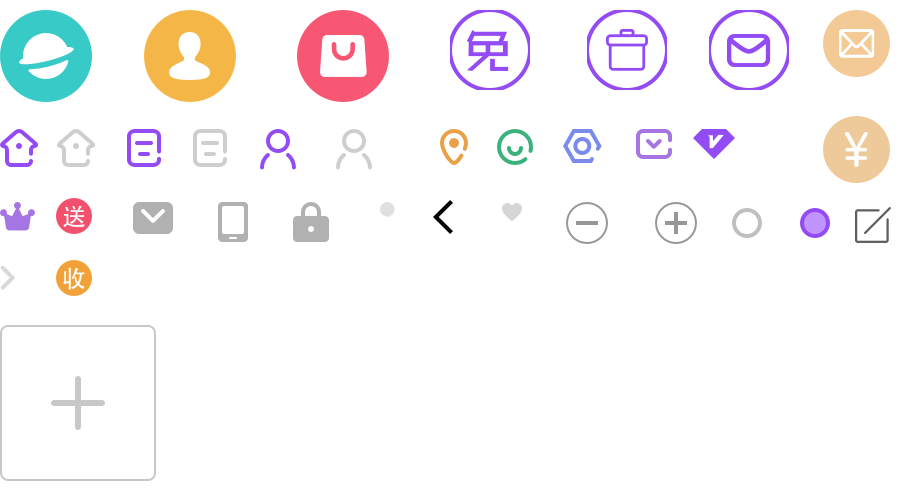
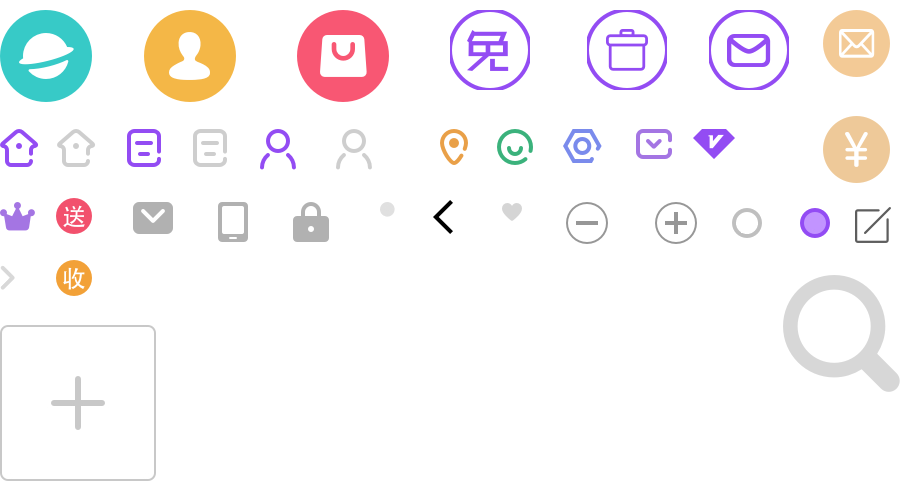
添加好友

Changed region(s): [[0.8711, 0.54, 1.0, 0.78]]

diff --git a/user/add_wechat_friend.html b/user/add_wechat_friend.html
@@ -17,24 +17,43 @@
         </a>
 
         <h3>添加好友</h3>
-        <a href="add_wechat_friend.html" class="add_more">添加好友</a>
     </div>
     <div class="content">
         <div class="search_wechat">
             <input class="wechat_input" type="text" placeholder="请输入好友的微信账号"/>
+            <a href="javascript:;" class="search_wechat_btn">搜索</a>
         </div>
-        <ul class="my_friend_ul">
+
+        <!--我的好友跳转过来时-->
+        <ul class="my_friend_ul" style="display: none">
             <li class="my_friend_item clearfix">
                 <img src="../images/friend_1.png" alt="friend"/>
                 <span>小花</span>
                 <span class="has_added">已添加</span>
             </li>
         </ul>
+        <!--有搜索结果-->
+        <ul class="my_friend_ul">
+            <li class="my_friend_item clearfix">
+                <img src="../images/friend_1.png" alt="friend"/>
+                <span>小花</span>
+                <a href="javascript:;" class="add_friends_linkbtn">添加好友</a>
+            </li>
+        </ul>
+
+        <!--无搜索结果-->
+        <div class="search_none" style="display: none">
+            <span class="search_no_tip icon_week"></span>
+            暂无搜索结果
+        </div>
+
     </div>
 </div>
 
 <script>
-
+$('.add_friends_linkbtn').click(function(){
+    window.location.href='my_friend.html?addfriend='+'true';
+});
 
 </script>
 </body>

diff --git a/css/user.css b/css/user.css
@@ -586,12 +586,71 @@
     height: 2.18rem;
     background-color: #fff;
     padding: 0 .2rem;
+    line-height: 2.18rem;
+    border-top: 1px solid #efefef;
+    border-bottom: 1px solid #efefef;
 }
 
 .wechat_input{
     width: 4.53rem;
     height: .8rem;
+    font-size: .28rem;
+    padding-left: .25rem;
+    border-radius: .12rem;
+    -webkit-border-radius: .12rem;
+    border: 1px solid #bcbcbc;
+    margin-right: .17rem;
+    font-size: .28rem;
+}
+
+.search_wechat_btn{
+    display: inline-block;
+    width: 2.28rem;
+    height: .8rem;
     line-height: .8rem;
+    font-size: .32rem;
+    text-align: center;
+    background-color:#934cf4 ;
+    color: #fff;
+    border-radius: .12rem;
+    -webkit-border-radius: .12rem;
+}
+
+.add_friends_linkbtn{
+    position: absolute;
+    right: .26rem;
+    top: .29rem;
+    width: 1.63rem;
+    height: .7rem;
+    line-height: .7rem;
+    font-size: .3rem;
+    text-align: center;
+    color: #934cf4;
+    border: 1px solid #9750f4;
+    border-radius: .12rem;
+    -webkit-border-radius: .12rem;
+}
+
+.search_none{
+    text-align: center;
+    width: 2.4rem;
+    height: 2.4rem;
+    color: #999;
+    position: absolute;
+    left: 50%;
+    margin-left: -1.2rem;
+    top: 50%;
+    margin-top: -1.2rem;
+
+}
+
+.search_no_tip{
+    width: 1.2rem;
+    height: 1.2rem;
+    margin: 0 auto .5rem;
+    display: block;
+    background-position: -7.66rem -2.68rem;
+    background-size: 8.84rem 4.9rem;
 }
 
 

diff --git a/user/my_friend.html b/user/my_friend.html
@@ -12,7 +12,7 @@
 <body>
 <div class="all_elements">
     <div class="header">
-        <a href="javascript:window.history.go(-1);" class="header_back">
+        <a href="user_index.html" class="header_back">
             <i class="head_back icon_week"></i>
         </a>
 
@@ -38,7 +38,26 @@
 </div>
 
 <script>
+    $(function () {
+        //通过地址栏判断添加好友成功的toast
+        if (location.href.indexOf('addfriend=true') != -1) {
+            var toast = $('<div id="week_toast">添加好友成功</div>');
+            toast.appendTo($(document.body));
+            toast.animate({
+                opacity: 1
+            }, 200, 'linear', function () {
+                setTimeout(function () {
+                    toast.animate({
+                        opacity: 0
+                    }, 400, function () {
+                        toast.remove();
+                    });
+                }, 1000)
+            });
+        }
+        ;
 
+    })
 
 </script>
 </body>
